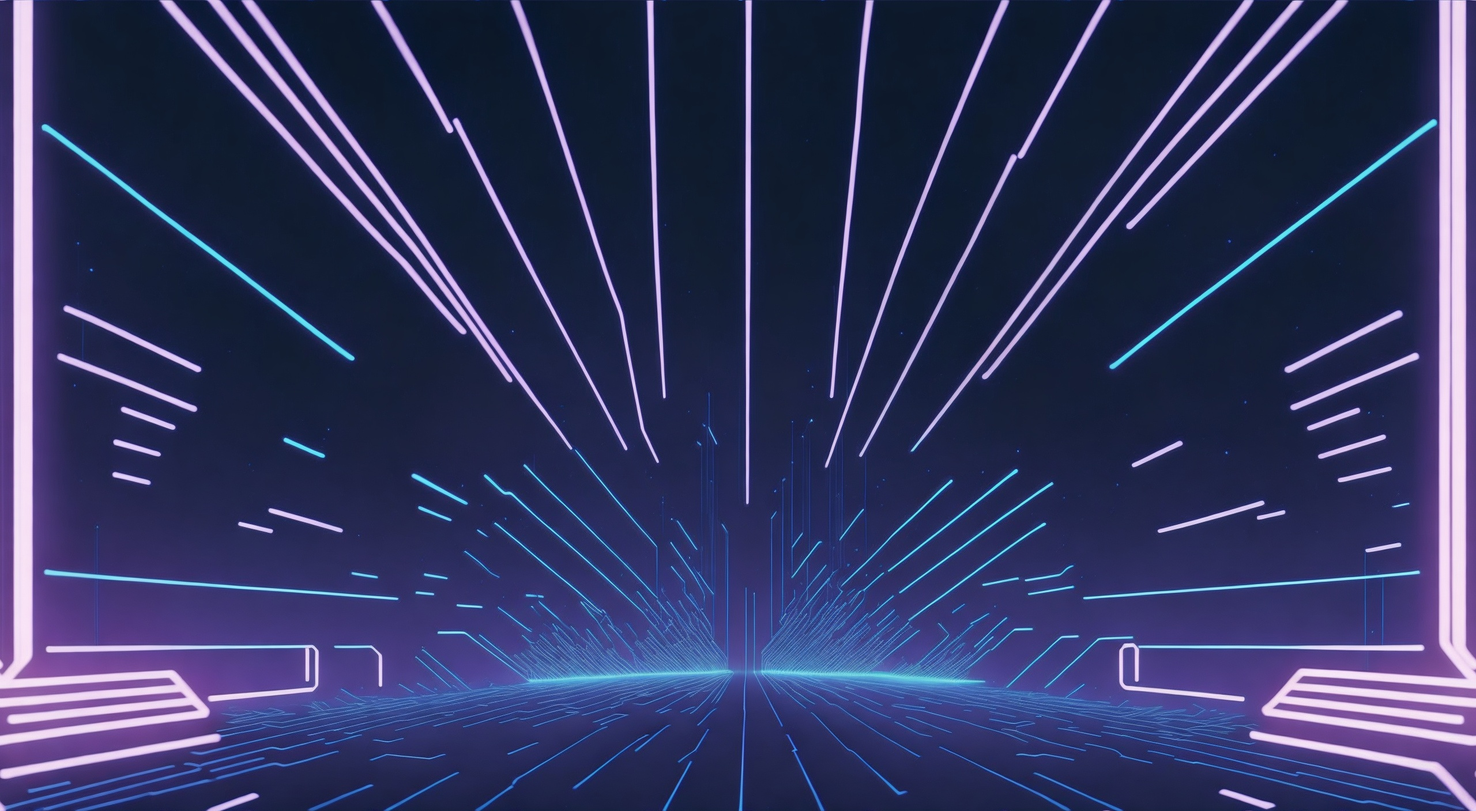
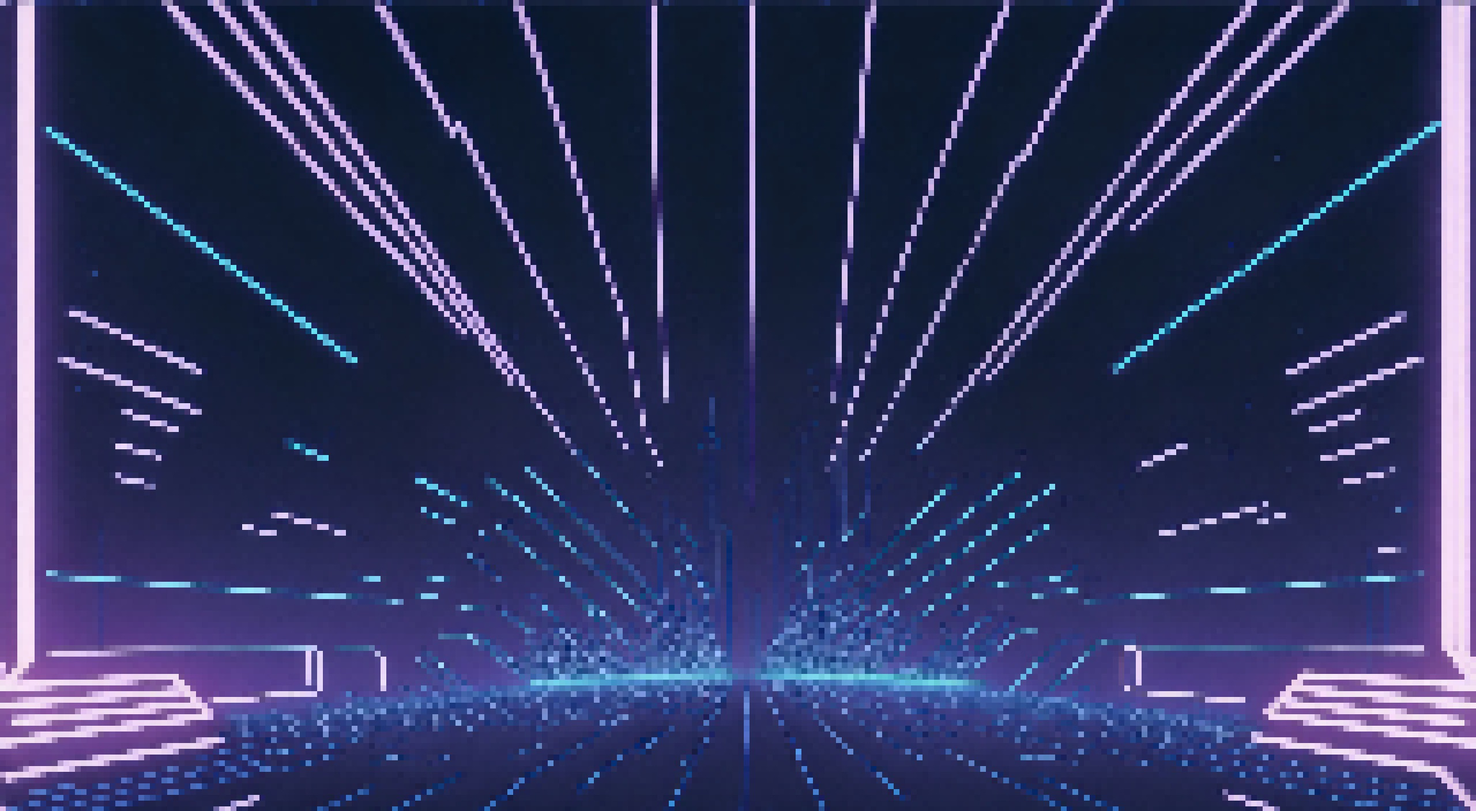
Tela do game over

diff --git a/src/game/game.py b/src/game/game.py
@@ -44,8 +44,8 @@ class Game():
             level_load, (game_constants.SCREEN_WIDTH, game_constants.SCREEN_HEIGHT)
         )
 
-        over_load = pygame.image.load(f'{assets_path}/backgrounds/level_background.jpg').convert()
-        self.over_surface = pygame.transforma.scale(
+        over_load = pygame.image.load(f'{assets_path}/backgrounds/over_background.jpg').convert()
+        self.over_surface = pygame.transform.scale(
             over_load, (game_constants.SCREEN_WIDTH, game_constants.SCREEN_HEIGHT)
         )
         # Inicializa o texto do menu
@@ -70,7 +70,7 @@ class Game():
             'GAME OVER', True, '#01bfff'
         )
         self.game_over_title_rect = self.game_over_title_surface.get_rect(
-            center=(game_constants.SCREEN_WIDTH / 2, 50)
+            center=(game_constants.SCREEN_WIDTH / 2, game_constants.SCREEN_HEIGHT / 2)
         )
 
         self.copyright = pygame.font.Font(f'{assets_path}/fonts/game_font.ttf', 17)
@@ -154,7 +154,9 @@ class Game():
 
     def render_game_over(self):
         
+        self.screen.blit(self.over_surface, (0, 0))
         self.screen.blit(self.game_over_title_surface, self.game_over_title_rect)
+        pygame.display.flip()
 
     def spawn_blast(self):
         

diff --git a/src/entities/player.py b/src/entities/player.py
@@ -17,7 +17,7 @@ class Player:
         # Carrega a imagem do player
         assets_path = get_assets_path(__file__)
         self.sprite = image.load(f'{assets_path}/sprites/player_sprite.png').convert_alpha()
-        self.sprite = transform.scale(self.sprite, (75, 75))
+        self.sprite = transform.scale_by(self.sprite, 2.5)
 
         self.rect = self.sprite.get_rect()
         self.rect.center = (self.position_x, self.position_y)

diff --git a/src/main.py b/src/main.py
@@ -29,7 +29,8 @@ def main():
             
             if game.get_current_state() == 'LEVEL':
                 if game.player.health <= 0:
-                     game.set_current_state('GAMEOVER')
+                     game.set_current_state('GAME OVER')
+                     game.render_game_over()
     
                 if event.type == game.blast_timer:
                     game.spawn_blast()
